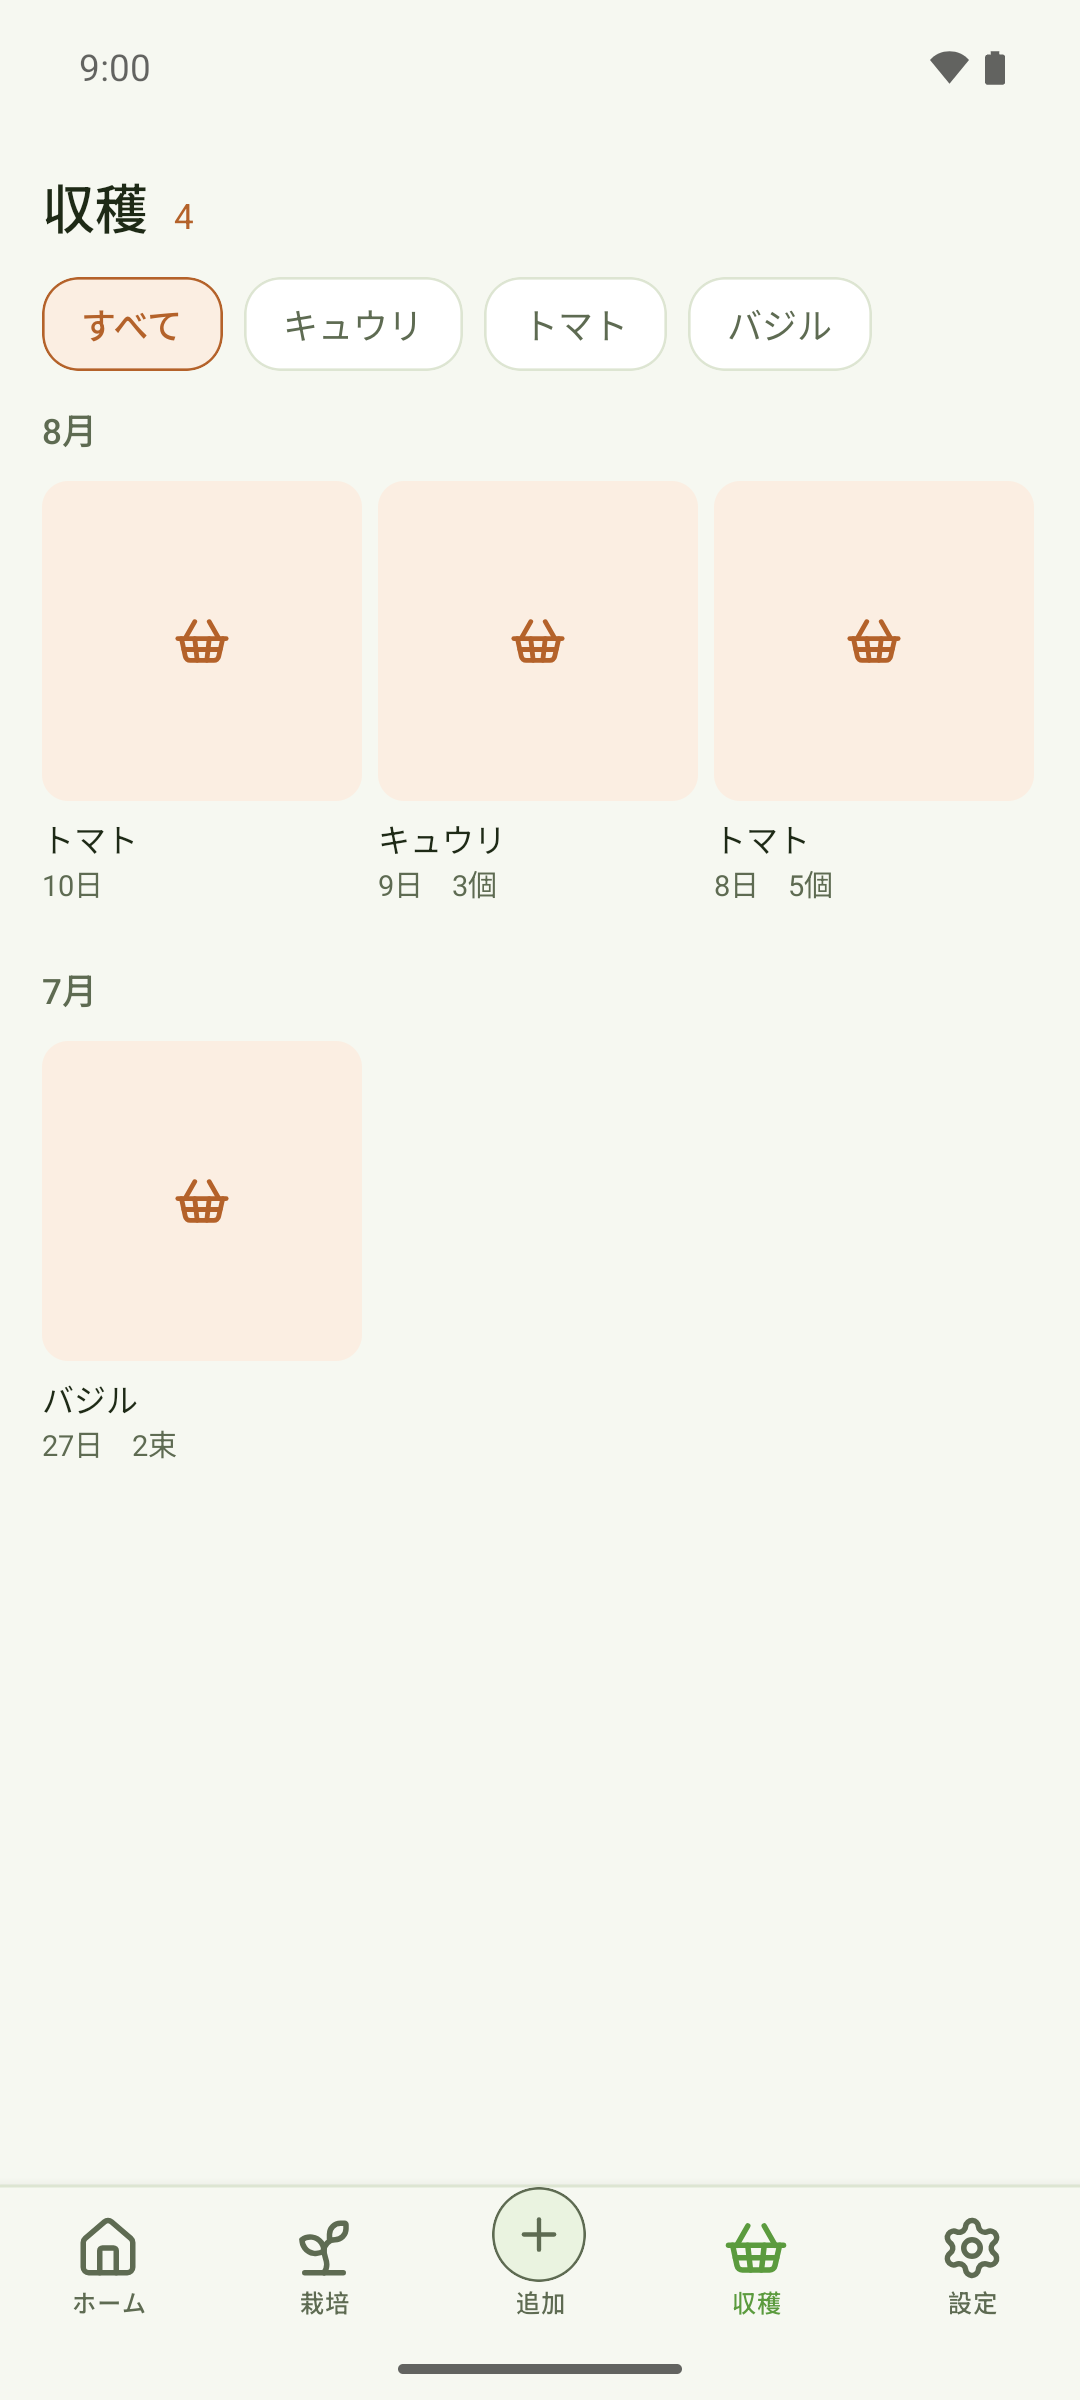
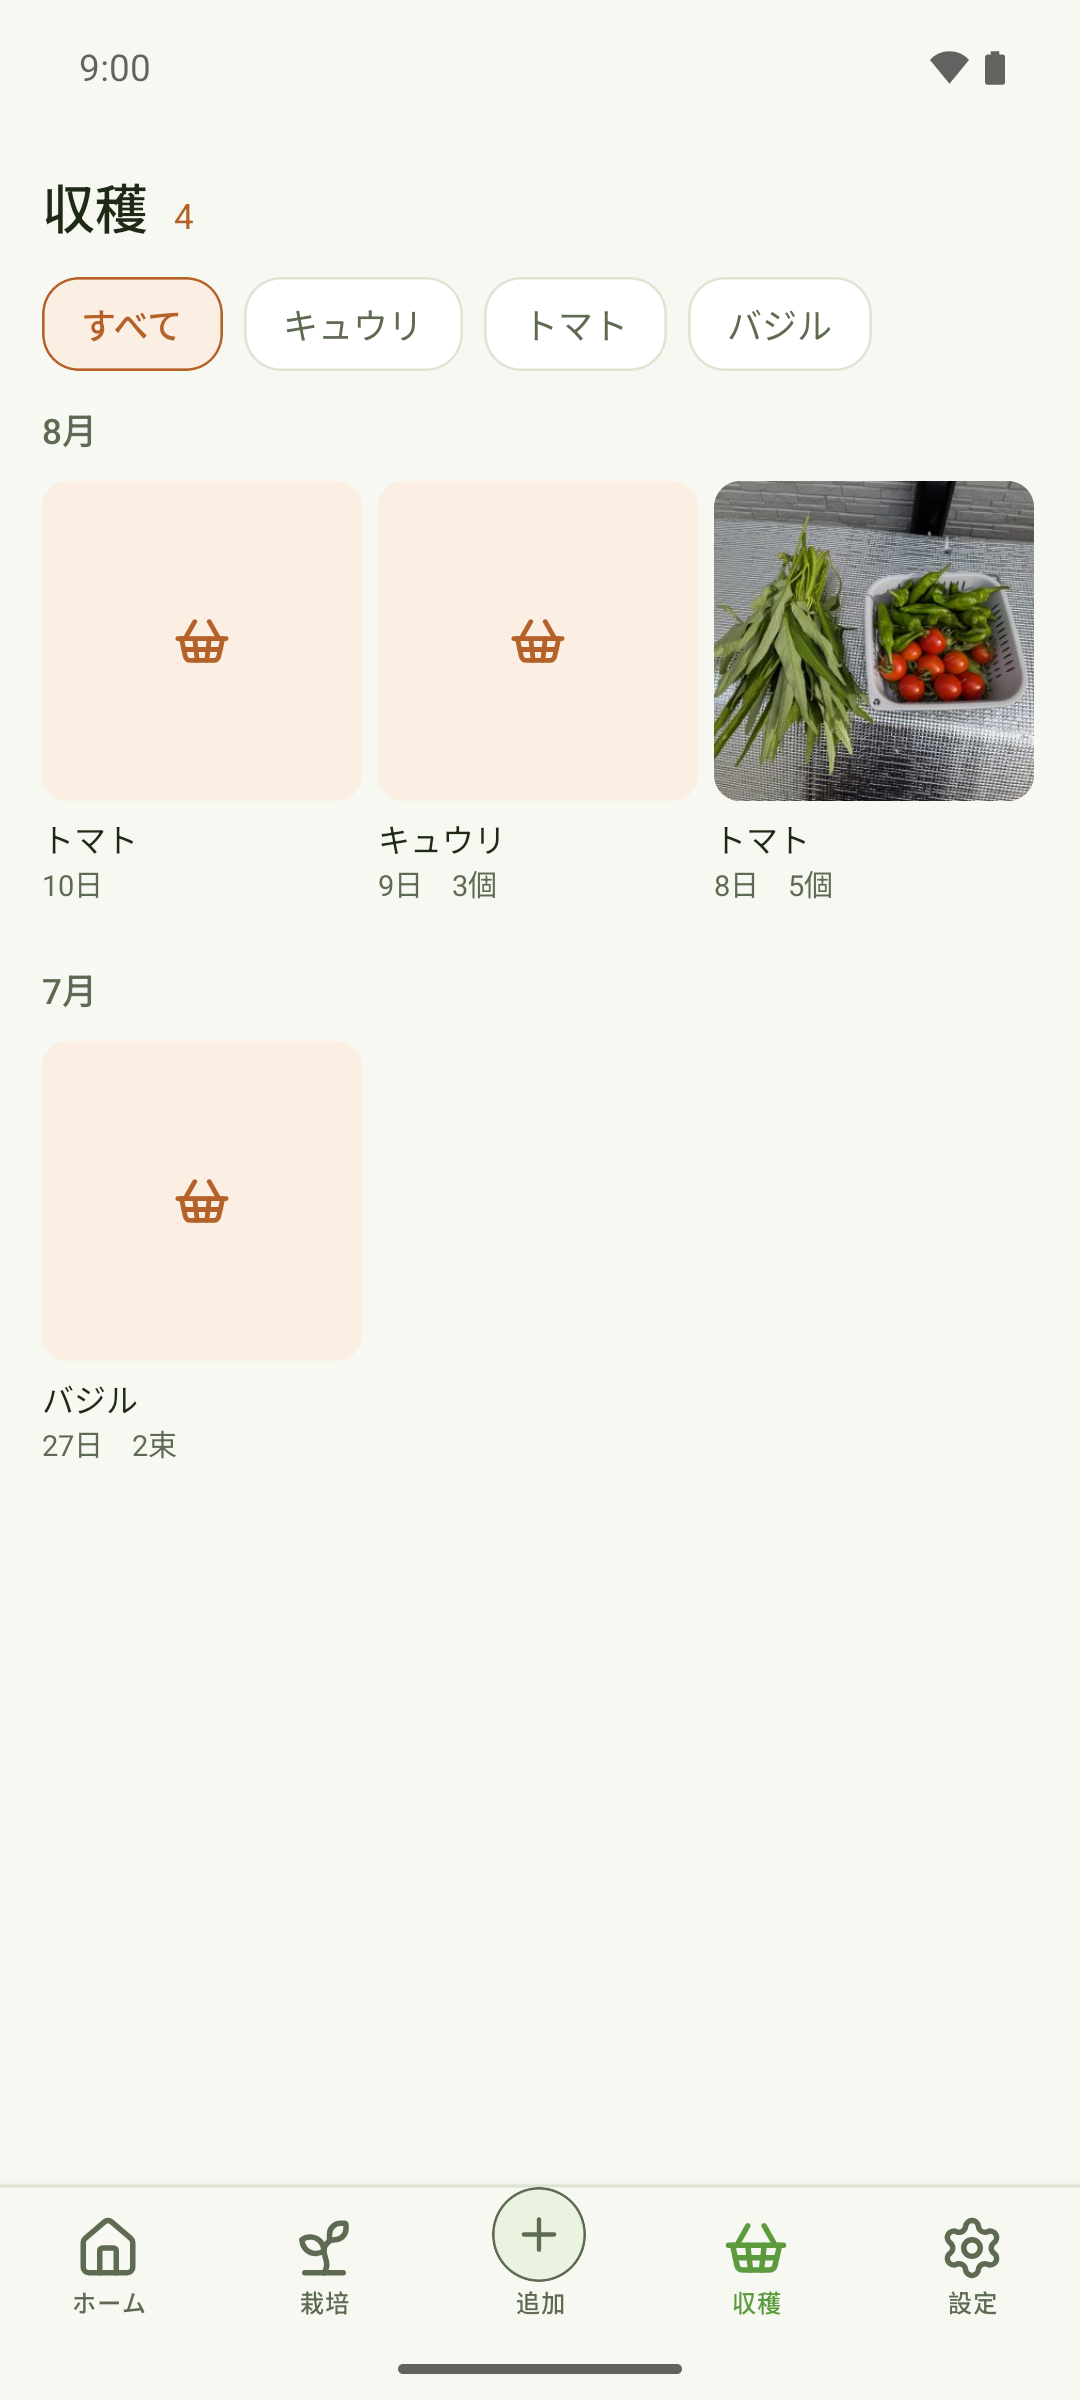
feat: 収穫アルバム等のストアスクショに実写真のサンプルを同梱する (WBS 3.8)
提供された実際の菜園写真 4 枚を、位置情報・端末情報（GPS 座標・標高・
撮影方向・Pixel 9a・撮影時刻）を含む EXIF をすべて除去したうえで同梱し、
サンプルデータ投入時に photos 行とトマトのカバー写真として複製する。
除去は sharp の再エンコードで行い、生バイト列に GPS/端末名の痕跡が
無いことも確認済み。

- seed-photos.ts: 固定 ID + onConflictDoNothing で冪等
  （generateId だと SAMPLE_DATA_VERSION を上げるたびに写真が増える）
- expo-asset は SDK 54 対応の ~12.0.13 に固定
  （^57.0.10 は expo-modules-core 不整合で起動クラッシュ — 実機で確認）
- スクショ 7 枚を撮り直し（収穫アルバム・栽培詳細に実写真）

Changed region(s): [[0.6417, 0.1875, 0.9778, 0.3438]]

diff --git a/apps/mobile/src/db/seed-photos.ts b/apps/mobile/src/db/seed-photos.ts
@@ -1,0 +1,140 @@
+/**
+ * サンプルデータ用の写真投入（ストア掲載素材・WBS 3.8）
+ *
+ * **サンプルデータを有効にしたビルドでしか動かない。** 実利用者の端末では
+ * seedDatabase 自体が即 return するのでここへは来ない。
+ *
+ * ## なぜ同梱の画像を copy するのか
+ *
+ * 収穫アルバム（R07）は「写真で振り返る」画面なので、写真ゼロだと
+ * 籠アイコンだけが並ぶ。掲載スクリーンショットとして訴求が死ぬ。
+ * かといって実物らしい写真は生成できないので、実際の菜園の写真を同梱している。
+ *
+ * 表示は `photos.local_path` を `<Image source={{uri}}>` に渡す作りなので、
+ * バンドル内の asset URI をそのまま入れる手もある。**しない**のは、
+ * asset URI が実行環境（dev / release / OS）で形が変わり、
+ * リリースビルドだけ画像が出ない事故になりやすいため。
+ * 通常の写真と同じく garden-photos/ へ複製して、経路を 1 本にする。
+ *
+ * ## 同梱している写真について
+ *
+ * 提供された実写真から**位置情報・端末情報を含む EXIF をすべて除去**してある
+ * （sharp で再エンコード。生バイト列に GPS/端末名の痕跡が無いことも確認済み）。
+ * 差し替えるときも同じ処理を通すこと — スマホの写真は既定で自宅の座標を持つ。
+ */
+import { eq } from 'drizzle-orm';
+import type { ExpoSQLiteDatabase } from 'drizzle-orm/expo-sqlite';
+import { Asset } from 'expo-asset';
+import * as FileSystem from 'expo-file-system/legacy';
+
+import * as schema from './schema';
+
+type DB = ExpoSQLiteDatabase<typeof schema>;
+
+/** 投入する写真と、結び付ける先 */
+interface SamplePhoto {
+  /**
+   * photos.id と複製先のファイル名に使う固定 ID。
+   *
+   * **generateId() を使ってはいけない。** 他のシードは固定 ID + onConflictDoNothing で
+   * 冪等だが、写真をランダム ID にすると SAMPLE_DATA_VERSION を上げるたびに
+   * 4 枚ずつ増える。再シードは必ず起きる（版を上げるのがシードの更新手段なので）。
+   */
+  id: string;
+  /** require() の戻り（Metro が解決する） */
+  // eslint-disable-next-line @typescript-eslint/no-explicit-any
+  module: any;
+  ownerType: 'harvest' | 'care_log' | 'planting';
+  ownerId: string;
+  /** plantings.cover_photo_path にも入れるか */
+  asCover?: boolean;
+}
+
+const SAMPLE_PHOTOS: SamplePhoto[] = [
+  {
+    id: 'sample-photo-harvest-01',
+    module: require('../../assets/sample-photos/harvest-tomato.jpg'),
+    ownerType: 'harvest',
+    ownerId: 'harvest-01',
+  },
+  {
+    id: 'sample-photo-planting-01',
+    module: require('../../assets/sample-photos/planting-tomato.jpg'),
+    ownerType: 'planting',
+    ownerId: 'planting-tomato-01',
+    asCover: true,
+  },
+  {
+    id: 'sample-photo-care-01',
+    module: require('../../assets/sample-photos/care-planter.jpg'),
+    ownerType: 'care_log',
+    ownerId: 'care-log-01',
+  },
+  {
+    id: 'sample-photo-care-03',
+    module: require('../../assets/sample-photos/care-seedling.jpg'),
+    ownerType: 'care_log',
+    ownerId: 'care-log-03',
+  },
+];
+
+/**
+ * 同梱写真を端末へ複製し、photos 行と栽培のカバー写真を作る。
+ *
+ * 失敗しても投げない。**写真が出ないだけでアプリは使える**ので、
+ * サンプルデータの投入全体を巻き込んで落とすほうが害が大きい。
+ */
+export async function seedSamplePhotos(database: DB): Promise<void> {
+  const directory = `${FileSystem.documentDirectory ?? ''}garden-photos/`;
+  if (!FileSystem.documentDirectory) return;
+
+  try {
+    const info = await FileSystem.getInfoAsync(directory);
+    if (!info.exists) {
+      await FileSystem.makeDirectoryAsync(directory, { intermediates: true });
+    }
+  } catch {
+    return;
+  }
+
+  const now = new Date().toISOString();
+  let sortOrder = 0;
+
+  for (const sample of SAMPLE_PHOTOS) {
+    try {
+      // 複製先も固定名。再シードで同じ場所を上書きするので増えない
+      const destination = `${directory}${sample.id}.jpg`;
+      const existing = await FileSystem.getInfoAsync(destination);
+      if (!existing.exists) {
+        const asset = Asset.fromModule(sample.module);
+        await asset.downloadAsync();
+        const source = asset.localUri ?? asset.uri;
+        if (!source) continue;
+        await FileSystem.copyAsync({ from: source, to: destination });
+      }
+
+      if (sample.ownerType === 'planting' && sample.asCover) {
+        await database
+          .update(schema.plantings)
+          .set({ coverPhotoPath: destination, updatedAt: now })
+          .where(eq(schema.plantings.id, sample.ownerId));
+      }
+
+      await database
+        .insert(schema.photos)
+        .values({
+          id: sample.id,
+          ownerType: sample.ownerType,
+          ownerId: sample.ownerId,
+          localPath: destination,
+          width: 1200,
+          height: 1200,
+          sortOrder: sortOrder++,
+          createdAt: now,
+        })
+        .onConflictDoNothing();
+    } catch {
+      // この 1 枚を諦めて次へ。写真が無くても画面は成立する
+    }
+  }
+}

diff --git a/apps/mobile/src/db/migrate.ts b/apps/mobile/src/db/migrate.ts
@@ -9,6 +9,7 @@ import { normalizeForSearch } from '../services/fts.service';
 import { CROP_MASTER, CROP_MASTER_VERSION } from './crop-master';
 import * as schema from './schema';
 import { isSampleDataEnabled } from './sampleData';
+import { seedSamplePhotos } from './seed-photos';
 import {
   seedCareLogs,
   seedCropCalendars,
@@ -41,7 +42,7 @@ const DEFAULT_INVITE_CODE = 'DK0001';
 
 // サンプルデータの中身を変えたら必ず上げる。据え置くと、既にシード済みの端末は
 // appMeta のマーカーが一致して seedDatabase() が即 return し、新しい行が入らない。
-const SAMPLE_DATA_VERSION = '5';
+const SAMPLE_DATA_VERSION = '6';
 const SAMPLE_DATA_META_KEY = 'sample_data_version';
 
 export interface SeedSnapshot {
@@ -641,6 +642,9 @@ export async function seedDatabase(database: DB): Promise<void> {
     .insert(schema.materials)
     .values([...seedMaterials])
     .onConflictDoNothing();
+
+  // 掲載スクリーンショット用の写真（WBS 3.8）。失敗しても投げない
+  await seedSamplePhotos(database);
 
   // Populate FTS index
   await rebuildPlantingFts(database);
